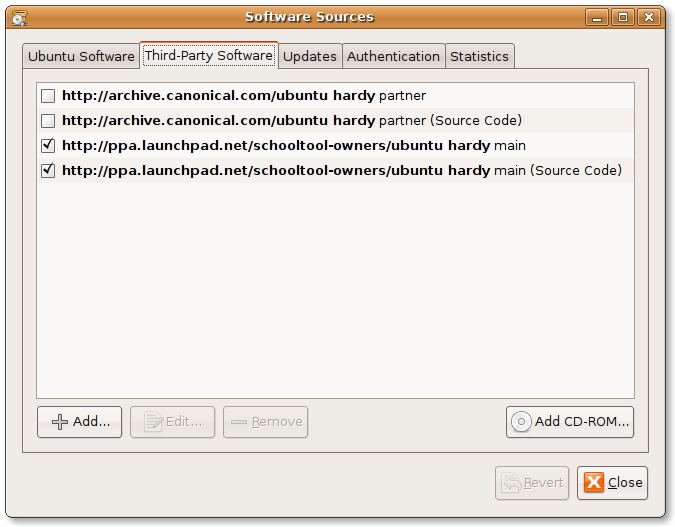
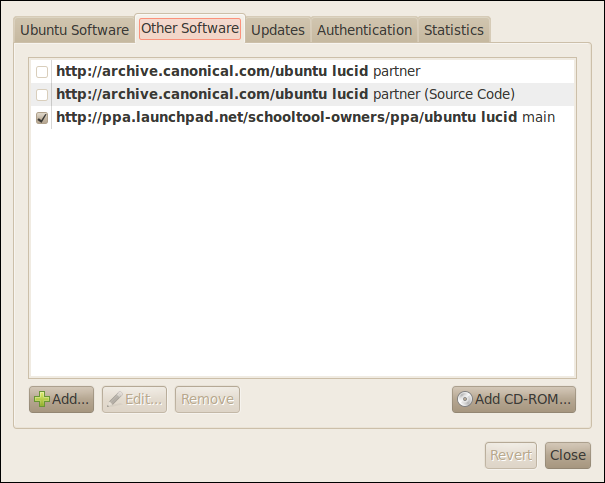
Updating basic stuff and install for 1.4.

Changed region(s): [[0.0, 0.0, 1.0, 1.0]]

diff --git a/source/install.rst b/source/install.rst
@@ -3,68 +3,26 @@
 Installing SchoolTool on Ubuntu
 ===============================
 
-For the forseeable future we are only supporting deployment on `Ubuntu Linux <http://ubuntu.com>`_ (currently, Hardy, Intrepid, Jaunty and Karmic releases).
+We recommend and support installation of SchoolTool on `Ubuntu Linux <http://ubuntu.com>`_ version 10.04, "Lucid Lynx" or 9.10, "Karmic Koala."  With either of these versions you will get SchoolTool 1.4.  Since 10.04 is designated a long-term support (LTS) release by `Canonical <http://canonical.com>`_ supported for five years, it generally would make more sense to use Lucid.
 
 #. Add `SchoolTool PPA <https://launchpad.net/~schooltool-owners/+archive/ppa/>`_ to your Software Sources.
 
-   Either manually edit ``/etc/apt/sources.list`` and add these lines to the end of the file, or go to the **System** menu, then **Administration** and select **Software Sources**.  Select the **Third-Party Software** tab.
-
-   If you're running Hardy add::
-
-    deb http://ppa.launchpad.net/schooltool-owners/ppa/ubuntu hardy main
-    deb-src http://ppa.launchpad.net/schooltool-owners/ppa/ubuntu hardy main
-
-   If you're running Intrepid add::
-
-    deb http://ppa.launchpad.net/schooltool-owners/ppa/ubuntu intrepid main
-    deb-src http://ppa.launchpad.net/schooltool-owners/ppa/ubuntu intrepid main
-
-   If you're running Jaunty add::
-
-    deb http://ppa.launchpad.net/schooltool-owners/ppa/ubuntu jaunty main
-    deb-src http://ppa.launchpad.net/schooltool-owners/ppa/ubuntu jaunty main
-
-   If you're running Karmic and using the **Software Sources** window (recommended), add::
+   If you'd prefer to use the graphical interface, go to the **System** menu, **Administration** submenu and select **Software Sources**.  Select the **Other Software** tab, then **Add** and enter::
    
     ppa:schooltool-owners/ppa
 
-   If you're running Karmic and editing /etc/apt/sources.list add::
-
-    deb http://ppa.launchpad.net/schooltool-owners/ppa/ubuntu karmic main
-    deb-src http://ppa.launchpad.net/schooltool-owners/ppa/ubuntu karmic main
-
-   **Note:** If you previously edited your ``/etc/apt/preferences`` file to install on Karmic, you should now remove the following lines, or delete the file if they are the only entry::
-
-    Explanation: prefer packages from SchoolTool PPA
-    Package: *
-    Pin: release o=LP-PPA-schooltool-owners
-    Pin-Priority: 1001
-
    .. image:: images/sources.png
 
-#. Add the digital keys of the Launchpad PPA for SchoolTool Owners to your system.
+   If you're using the command line, enter::
 
-   **Note:** if you are using **Software Sources** on Karmic, you can skip this step.  It is handled automatically.
-
-   This step ensures that you're getting the official version of SchoolTool, that:
-
-   * the packages you're downloading haven't been altered since Launchpad built them;
-   * you are downloading from the PPA you wanted. 
-
-    To do this, open a Terminal: go to **Applications > Accessories > Terminal** and run the following command::
- 
-     sudo apt-key adv --recv-keys --keyserver keyserver.ubuntu.com c95c0e19386b7051
-
-
-   Full instructions instructions for installing our key can be found at `Launchpad Help <https://help.launchpad.net/Packaging/PPA#Adding%20a%20PPA%27s%20keys%20to%20your%20system>`_.  
-   
-#. Update your software list.
-
-   Either type ``sudo apt-get update`` in a Terminal or, if you've got the Synaptic package manager installed, go to **System > Administration > Synaptic Package Manager**, launch it, and click **Reload**.
+    sudo add-apt-repository ppa:schooltool-owners/ppa
+    sudo apt-get update
 
 #. Install schooltool-2009.
 
-   Either type ``sudo apt-get install schooltool-2009`` in a terminal (and answer "y" to the subsequent questions), or in Synaptic search for "schooltool-2009", select it for installation, and hit **Apply**.  If it doesn't show up in Synaptic try the terminal method.
+   Either type ``sudo apt-get install schooltool-2009`` in a terminal (and answer "y" to the subsequent questions), or access the **Ubuntu Software Center** from the **Applications** menu.  Search for "schooltool-2009", and then click **Install** and enter your password. 
+
+   .. image:: images/uss.png
 
    If all goes well, many, many small Zope components will be installed and you'll have a SchoolTool server running on http://localhost:7080.  If that doesn't work, try http://127.0.0.1:7080
    

diff --git a/source/what-is-1_0.rst b/source/what-is-1_0.rst
@@ -1,7 +1,7 @@
-What Can I Expect From SchoolTool 1.2?
+What Can I Expect From SchoolTool 1.4?
 ======================================
 
-SchoolTool 1.2 is a student information system (SIS), a suite of applications for tracking data about students.  Each one of these applications -- gradebook, attendance, demographics, discipline tracking -- is simple on its face but potentially strives to accommodate almost infinite variation in local implementation.  This is software which is never "complete" or "finished."  Talk to a vendor with a successful, full-featured SIS and you'll likely find that the roots of the product go back well over a decade.
+SchoolTool 1.4 is a student information system (SIS), a suite of applications for tracking data about students.  Each one of these applications -- gradebook, attendance, demographics, intervention tracking -- is simple on its face but potentially strives to accommodate almost infinite variation in local implementation.  This is software which is never "complete" or "finished."  Talk to a vendor with a successful, full-featured SIS and you'll likely find that the roots of the product go back well over a decade.
 
 Reports
 -------
@@ -11,7 +11,7 @@ Arguably, the entire reason for an SIS is to produce reports.  SchoolTool curren
 How Much Has SchoolTool Been Used and Tested?
 ---------------------------------------------
 
-The core architecture of SchoolTool has now been extensively tested and used at Career and Technical Academies in Arlington and other sites in Virginia as part of the CanDo project.  The gradebook and attendance components have been tested by small numbers of teachers in various schools, but they have not seen extensive use.  Resource booking has been successfully used by three schools in the current school year with no significant issues.
+The core architecture of SchoolTool has now been extensively tested and used at Career and Technical Academies in Arlington and other sites in Virginia as part of the CanDo project.  The gradebook and attendance components have been tested by small numbers of teachers in various schools, but they have not seen extensive use.  Resource booking has been successfully used by at least three schools for more than a year with no significant issues.
 
 Is SchoolTool Ready For Production Deployment as a School's Primary SIS?
 --------------------------------------------------------------------------------
@@ -19,13 +19,6 @@ Is SchoolTool Ready For Production Deployment as a School's Primary SIS?
 If you currently are using another mature, full-featured web-based SIS, SchoolTool will probably feel like a step down for your school.  If you are running the school using paper, a hodgepodge of spreadsheets and Access databases, or a badly implemented commercial SIS, SchoolTool should be a step up for you.  
 
 If SchoolTool is close to your needs, let us know what features are missing, and *please* remember that because SchoolTool is 100% open source, you can hire a developer to make the modifications you need, ideally contributing those back to the project so that other users can benefit.  If you have questions about that process, please contact `Tom Hoffman <mailto:hoffman@schooltool.org>`_.
-
-Should I Upgrade Immediately?
------------------------------
-
-The emphasis in SchoolTool 1.2 has been on new features, particularly to the Gradebook and integrating the Intervention system.  It is **not** meant as a small mid-year upgrade.  For example, if many teachers in a school are using the SchoolTool Gradebook, applying this update without warning and/or training them could disrupt their work, or at least confuse them.
-
-
 
 What About Uses By Schools Other Than as a SIS?
 -----------------------------------------------

diff --git a/source/features.rst b/source/features.rst
@@ -17,13 +17,13 @@ Because SchoolTool is free and easy to install, it can be installed on a laptop 
 School Model
 ------------
 
-* **Persons:** Default groups for people are students, teachers, school administrators, and site administrators (technical).  Parent access is planned for future releases.  Each person in the system can be given a login password with permissions appropriate to their role, but currently our development focus has been on teacher and administrator views.
+* **Persons:** Default groups for people are students, teachers, school administrators, and site administrators (technical).  Parent access is planned for future releases.  Each person in the system can be given a login password with permissions appropriate to their role, but currently our development focus has been on teacher and administrator views.  Students can review the grades in their gradebook.
 
 * **Groups:** Create arbitrary groups of people representing school organizations, clubs, teams, etc.  
 
 * **Courses and sections:** Courses define blocks of curriculum; e.g., 1st grade Math, 9th grade English.  Sections are the groupings of teachers and students working on a course; e.g., Mr. Hoffman's 9:30 Algebra I class, Fall 2009 semester.  
 
-* **Years and terms:** Years are the longest block of time in SchoolTool.  The transition between years represents a regular point of significant reorganization within the school; e.g., when most students are promoted, teachers hired, etc.).  Terms define when sections begin and end.
+* **Years and terms:** Years are the longest block of time in SchoolTool.  The transition between years represents a regular point of significant reorganization within the school; e.g., when most students are promoted, teachers hired, etc.).  Terms define when sections begin and end or when partial reorganization is common; e.g., class enrollments or schedules change.
 
 * **Timetables:** Timetables define when sections meet during the week.  This is the school's "bell schedule."  SchoolTool handles simple timetables; e.g., classes meet the same time every day; and many complex ones, such as rotating schedules and schedules with different start and end times on different days of the week.  
 
@@ -106,7 +106,7 @@ Reporting
 
 SchoolTool's printed reports are generated using the free and powerful ReportLab library, including support for reports defined in RML, an HTML-like markup language.
 
-SchoolTool 1.2 ships with a small set of default reports for grading and attendance.  We need your feedback on exactly what kind of reports are needed at your school.  Creating a set of high quality printable and web-viewable reports is a priority for development.  Let us know what you need!
+SchoolTool ships with a small set of default reports for grading and attendance.  We need your feedback on exactly what kind of reports are needed at your school.  Creating a set of high quality printable and web-viewable reports is a priority for development.  Let us know what you need!
 
 Report Cards
 ------------

diff --git a/source/glossary.rst b/source/glossary.rst
@@ -32,7 +32,11 @@ In simple cases, a period simply corresponds to a time; at 9:00, it describes wh
 
 **school timetable** - This is a "bell schedule" in US parlance, defining where the "slots" fall during the school's weekly (or other) cycle, when section meetings start and end each day.  
 
-**school year** - A school year encompasses the annual cycle of a school.  For example, most students are promoted at the end of a year.  Most teachers start work at the beginning of the year.  Terms must be contained within years.  The school year does not have to correspond to calendar year.  Whatever suits the processes of your school.  It is best to set this up so that each year begins immediately after the previous one.  Every date is part of one school year or another.  School years cannot overlap.
+**school year** - A school year encompasses the annual cycle of a school.  For example, most students are promoted at the end of a year.  Most teachers start work at the beginning of the year.  Terms must be contained within years.  
+
+The school year does not have to correspond to calendar year or be limited to a single calendar year.  Whatever suits the processes of your school.  
+
+It is best to set this up so that each year begins immediately after the previous one.  Every date is part of one school year or another.  School years cannot overlap.
 
 **score system** - A scale used for assessment.  A grading scale or rubric scale.  
 
@@ -50,9 +54,11 @@ In a simple schedule, a given period will always occur in the same slots, and th
 
 **term** - A unit of time that defines the beginning and end of sections on the calendar. For example, a semester or trimester.  Students generally recieve evaluations for each section at the end of the term.  
 
+If section enrollments or schedules are changed at a certain point in the school year, that transition should be represented by a change in terms.
+
 SchoolTool does not recognize a hierarchy of terms.  If in a particular school some sections last all year, some change by semesters, and some change quarterly, a "term" for this school would be defined as a quarter -- the shortest unit that defines the lifetime of a section.  In this case a year-long section would be modeled as four separate but linked sections.  
 
-Terms cannot overlap and must be contained within school years.
+Terms cannot overlap and must be contained within school years.  If you don't feel you need terms, you can simply create a term that spans the entire school year.
 
 **time period** - Synonymous with "term."  Deprecated.
 

diff --git a/source/system-requirements.rst b/source/system-requirements.rst
@@ -4,7 +4,7 @@ System Requirements
 School Level Deployments or Greater
 -----------------------------------
 
-For production deployment in a school or district, proper server hardware is, of course, recommended.  If SchoolTool is not the only service provided on the server, we recommend running SchoolTool by itself on a virtual server, running the "minimal virtual machine" configuration offered in Ubuntu Server 9.10 and later, or _the JeOS version of `Ubuntu 8.04 LTS <http://www.ubuntu.com/products/whatisubuntu/serveredition/jeos>`_. 
+For production deployment in a school or district, proper server hardware is, of course, recommended.  If SchoolTool is not the only service provided on the server, we recommend running SchoolTool by itself on a virtual server, running the "minimal virtual machine" configuration. 
 
 Personal
 --------
@@ -14,11 +14,11 @@ For personal use, SchoolTool can be installed and used on a personal desktop or 
 Hardware
 --------
 
-The primary bottleneck in SchoolTool's performance is usually memory.  The minimum  RAM requirement is 256 megabytes.  512 megabytes is recommended and if you are setting up dedicated server, adding more than 1 gigabyte of RAM is worth it if you can afford it.
+The primary bottleneck in SchoolTool's performance is usually memory.  The bare minimum RAM requirement is estimated to be 256 megabytes.  At least 512 megabytes is recommended and if you are setting up for a production server, adding more than 1 gigabyte of RAM is worth it if you can afford it.
 
-Faster processors will make SchoolTool run faster.  Over 1 gHz is recommended.  SchoolTool is multi-threaded but only one thread can run at one time, so it does not directly benefit from multiple processors or multi-core processors.  
+Faster processors will make SchoolTool run faster.  Over 1 gHz is recommended.  SchoolTool is multi-threaded but due to the Python programming language's implementation only one thread will run at one time, so SchoolTool's performance does not directly benefit from multiple processors or multi-core processors.  
 
-By the scale of modern storage technology, SchoolTool doesn't require significant disk space.  Around 1 gigabyte should handle it.  Speed is more important than volume.
+By the scale of modern storage technology, SchoolTool doesn't require significant disk space.  One gigabyte should handle it for quite a while.  Disk speed is more important than volume.
 
 Sample Data
 -----------

diff --git a/source/upgrade-lucid.rst b/source/upgrade-lucid.rst
@@ -1,0 +1,12 @@
+Upgrading SchoolTool After Lucid
+================================
+
+After SchoolTool 1.4, released for Ubuntu 10.4, "Lucid Lynx," new stable point versions of SchoolTool will be released only for the new/current version of Ubuntu.  For example, SchoolTool 1.6 will be available only for Ubuntu 10.10, "Maverick Meerkat."  
+
+Security updates and necessary maintenance releases will continue to be made for earlier supported SchoolTool versions.
+
+The main implication of this change is that as long as you do not upgrade the version of your operating system, you will not unexpectedly install a new version of SchoolTool that includes new features, changes in the user interface, or anything else that might confuse current users.  This will also limit the introduction of new bugs to production servers.
+
+This change *does* mean that to upgrade SchoolTool you will have to upgrade the entire system you're running SchoolTool on.  It is another good reason to run SchoolTool on its own dedicated server or virtual server, so that you do not have to upgrade other services at the same time if you don't want to.
+
+See `Upgrade instructions for Ubuntu <https://help.ubuntu.com/10.04/serverguide/C/installing-upgrading.html>`_ for more info on upgrading your system (and thus SchoolTool).

diff --git a/source/install-toc.rst b/source/install-toc.rst
@@ -8,6 +8,7 @@ Contents:
 
    system-requirements
    install
+   upgrade-lucid
    upgrade2009
    setup-initial
    email
